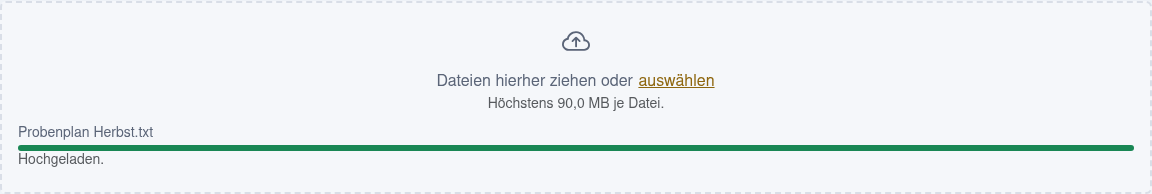
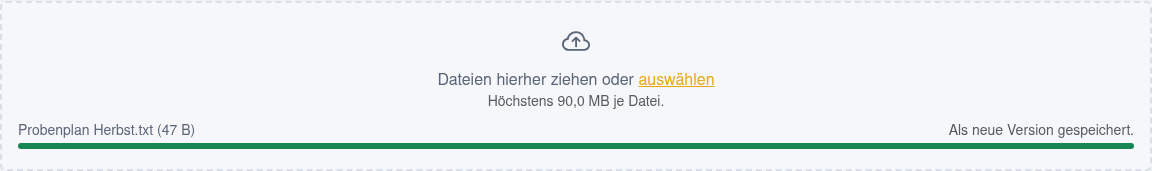
docs(help): Hilfe beschreibt die neue Ablegefläche für Anhänge
Seit fab529ee laden Liedanhänge, Aufgaben und Sponsoren über dieselbe
Ablegefläche hoch wie die Dateiablage. Die Hilfe sprach noch vom Knopf
"Dateien hochladen", und die Bilder zeigten das alte Dateifeld.

Texte:
- repertoire-songs: Fläche, mehrere auf einmal, Fortschritt je Datei,
  eine abgelehnte Datei hält die übrigen nicht auf, Fotos werden verkleinert.
- sponsoring-sponsors: Abschnitt "Anhänge zum Sponsor" nennt die Fläche.
- projects-planning: Dateien anhängen per Fläche.
- files: abgelehnte Dateien stehen oben, die übrigen werden gespeichert.

Neu aufgenommen (nach reset-and-seed): repertoire/06-files.png,
projects/08-task-detail.png, files/03-upload.png. Die Skripte schießen
jeweils das ganze Thema neu; alle anderen Bilder wurden zurückgesetzt, weil
sie vom Umbau nicht betroffen sind. Das Sponsorenbild 04-sponsor-detail
endet über dem Anhangsbereich und blieb deshalb, wie es war.

help/projects/scripts/screenshot.js lief schon vor dieser Änderung nicht
durch, und ohne die Reparatur entstand das Aufgabenbild nicht:
1) "Bearbeiten" steht mit Planungsrecht im Menü neben "Planung". Das Skript
   klickte den versteckten Eintrag an und brach ab. Jetzt klappt es das Menü
   vorher auf.
2) Die ID #task-detail-title gibt es im Template nicht mehr. Das Skript
   wartet stattdessen auf die fertig eingerichtete Ablegefläche.

Nicht behoben, weil nicht Teil dieser Änderung:
help/repertoire/scripts/screenshot.js bricht nach Bild 07 ab. Es wartet auf
[…]

diff --git a/help/projects/scripts/screenshot.js b/help/projects/scripts/screenshot.js
@@ -150,10 +150,18 @@ async function main() {
             'hidden.bs.modal'
         );
 
-        // 3. Modal: Projekt bearbeiten (erstes Projekt)
+        // 3. Modal: Projekt bearbeiten (erstes Projekt). Mit Planungsrecht steht
+        // "Bearbeiten" im Menü neben "Planung" - das Menü erst aufklappen.
+        const editTrigger = page.locator(`[data-bs-target="#editProjectModal${firstId}"]`);
+        if (!(await editTrigger.isVisible())) {
+            await editTrigger
+                .locator('xpath=ancestor::*[contains(@class,"btn-group")][1]//button[@data-bs-toggle="dropdown"]')
+                .click();
+            await editTrigger.waitFor({ state: 'visible' });
+        }
         await clickAndWaitForEvent(
             page,
-            page.locator(`[data-bs-target="#editProjectModal${firstId}"]`),
+            editTrigger,
             `#editProjectModal${firstId}`,
             'shown.bs.modal'
         );
@@ -207,7 +215,7 @@ async function main() {
         // 8. Aufgaben-Detailseite
         if (taskId) {
             await page.goto(`${BASE_URL}/tasks/${taskId}`, { waitUntil: 'networkidle' });
-            await page.locator('#task-detail-title').waitFor({ state: 'visible' });
+            await page.locator('[data-upload-dropzone].is-enhanced').waitFor({ state: 'visible' });
             await shot(page, '08-task-detail');
         }
 

diff --git a/help/repertoire/docs/repertoire-songs.md b/help/repertoire/docs/repertoire-songs.md
@@ -29,9 +29,12 @@ Der mittlere Abschnitt teilt sich in drei Spalten.
   **Kategorien speichern**. Die Schlagworte erscheinen danach auch in der
   Repertoireübersicht.
 - **Anhänge** — die eigentlichen Dateien: Notenblätter (PDF, Bild) und Aufnahmen
-  (z. B. MP3). Über **Dateien hochladen** kommen neue dazu, das Augen-Symbol zeigt eine
-  Vorschau, der Pfeil lädt herunter, der Papierkorb löscht. Größenobergrenzen: 2 MB je
-  Bild, 30 MB je Audiodatei, 10 MB für alle übrigen Dateien.
+  (z. B. MP3). Neue ziehst du auf die gestrichelte Fläche darunter oder klickst dort auf
+  **auswählen** – auch viele auf einmal. Jede Datei zeigt ihren eigenen Fortschritt;
+  lehnt der Chor-Manager eine ab, steht der Grund direkt daneben, und die übrigen werden
+  trotzdem gespeichert. Das Augen-Symbol zeigt eine Vorschau, der Pfeil lädt herunter,
+  der Papierkorb löscht. Größenobergrenzen: 2 MB je Bild (größere Fotos werden vor dem
+  Hochladen verkleinert), 30 MB je Audiodatei, 10 MB für alle übrigen Dateien.
 - **Links** — Verweise auf Material, das nicht im Chor-Manager liegt: Aufführungsvideos,
   MIDI-Referenzen, Übe-Tracks. Jeder Link hat Titel, URL und eine optionale Beschreibung.
 

diff --git a/help/files/docs/files.md b/help/files/docs/files.md
@@ -29,7 +29,7 @@ Deine Stufe steht im Kopf jeder Ordnerseite. Unterordner stehen als Kacheln übe
 
 ## 3. Dateien hochladen
 
-Ab der Stufe **Hochladen** ziehst du Dateien auf die markierte Fläche unter der Dateiliste oder klickst oben auf **Hochladen**. Mehrere Dateien auf einmal sind möglich; jede zeigt ihren eigenen Fortschritt. Die Größe je Datei ist begrenzt – die Grenze steht unter der Fläche.
+Ab der Stufe **Hochladen** ziehst du Dateien auf die markierte Fläche unter der Dateiliste oder klickst oben auf **Hochladen**. Mehrere Dateien auf einmal sind möglich; jede zeigt ihren eigenen Fortschritt. Wird eine abgelehnt, steht der Grund oben in der Liste, und die übrigen werden trotzdem gespeichert. Die Größe je Datei ist begrenzt – die Grenze steht unter der Fläche.
 
 Lädst du eine Datei mit einem Namen hoch, den es im Ordner schon gibt, wird sie zur **neuen Version** der vorhandenen Datei. Das geht nur ab der Stufe **Bearbeiten**; mit der Stufe **Hochladen** erscheint ein Hinweis, dass die Datei schon existiert.
 

diff --git a/help/sponsoring/docs/sponsoring-sponsors.md b/help/sponsoring/docs/sponsoring-sponsors.md
@@ -36,7 +36,7 @@ Die Seite liest sich von oben nach unten – ohne Reiter:
 2. **Steckbrief**: Kontaktperson, Telefon (anklickbar), E-Mail, Website, Adresse, die nächste offene Wiedervorlage und die Notizen zum Sponsor.
 3. **Vereinbarungen** – je Vereinbarung eine Karte, siehe Abschnitt 4.
 4. **Kontakthistorie** – alle Gespräche, die neuesten zuerst.
-5. **Anhänge zum Sponsor** – Logo, Mediadaten und alles, was zu keiner einzelnen Vereinbarung gehört.
+5. **Anhänge zum Sponsor** – Logo, Mediadaten und alles, was zu keiner einzelnen Vereinbarung gehört. Neue Dateien ziehst du auf die gestrichelte Fläche oder klickst dort auf **auswählen**; jede zeigt ihren eigenen Fortschritt.
 
 ![Seite eines Sponsors](images/sponsoring/04-sponsor-detail.png)
 

diff --git a/help/projects/docs/projects-planning.md b/help/projects/docs/projects-planning.md
@@ -41,7 +41,7 @@ Auf der Detailseite kannst du:
 
 - **Status** und Stammdaten über **Bearbeiten** ändern,
 - **Kommentare** schreiben, um Rückfragen und Zwischenstände zu dokumentieren,
-- **Dateien** anhängen, in der Vorschau ansehen und herunterladen,
+- **Dateien** anhängen – auf die gestrichelte Fläche ziehen oder dort **auswählen**, auch mehrere auf einmal –, in der Vorschau ansehen und herunterladen,
 - den **Aktivitätsverlauf** einsehen (wer hat wann was geändert – bei der Zuweisung steht dort getrennt, wer dazugekommen und wer weggefallen ist),
 - die Aufgabe in der **Gefahrenzone** löschen.
 
